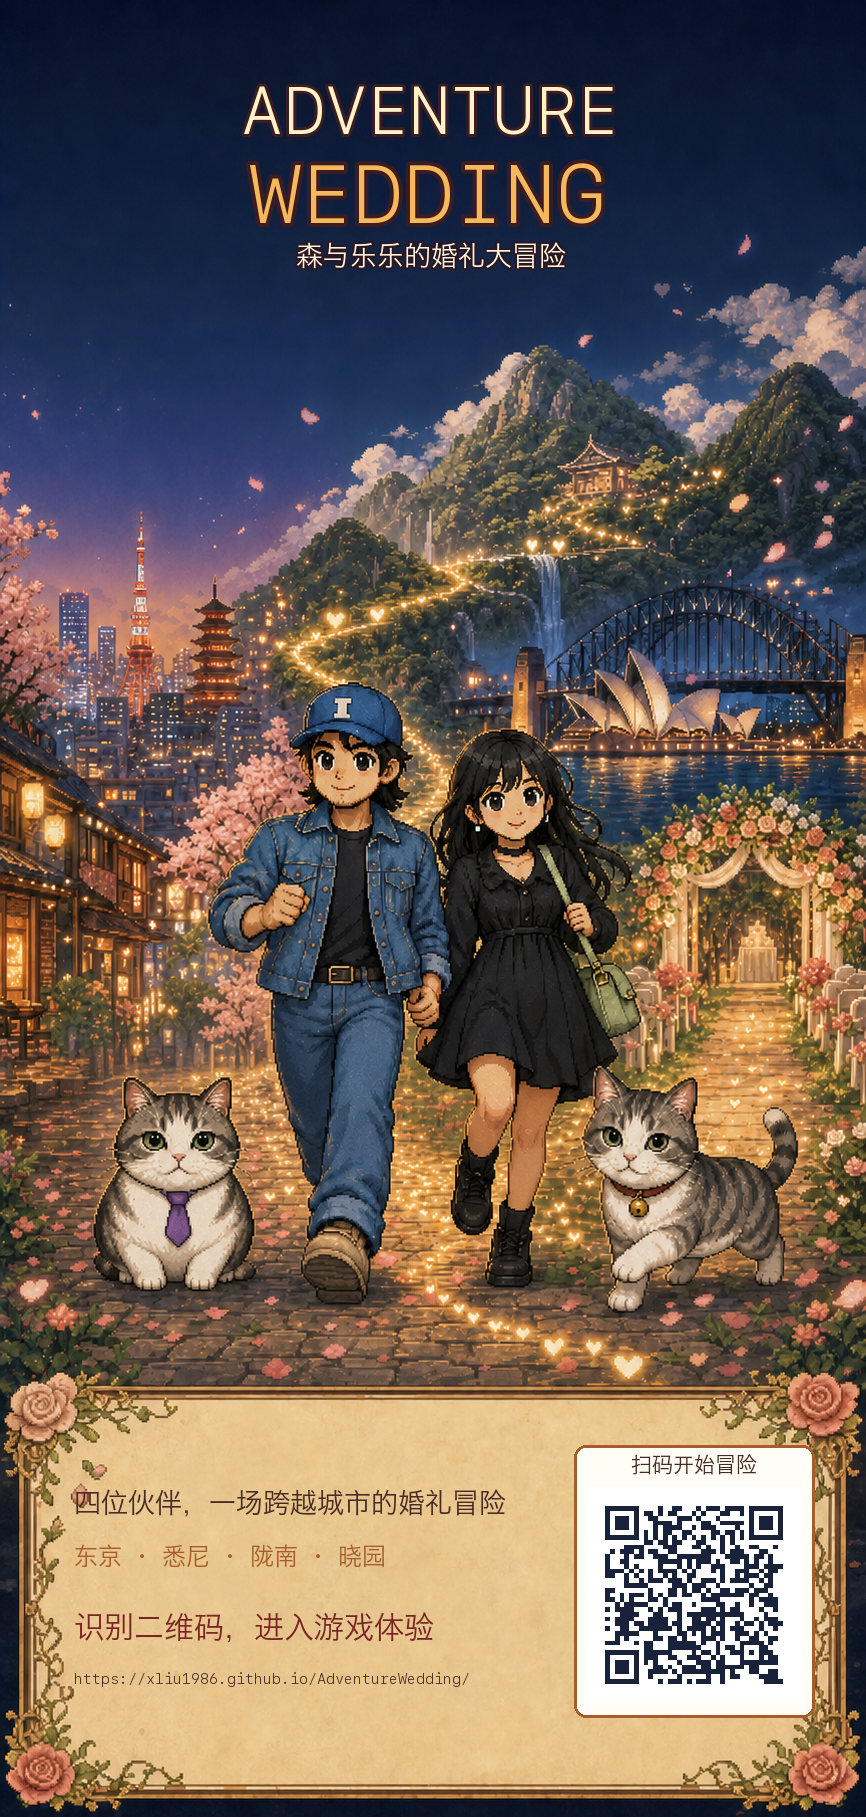
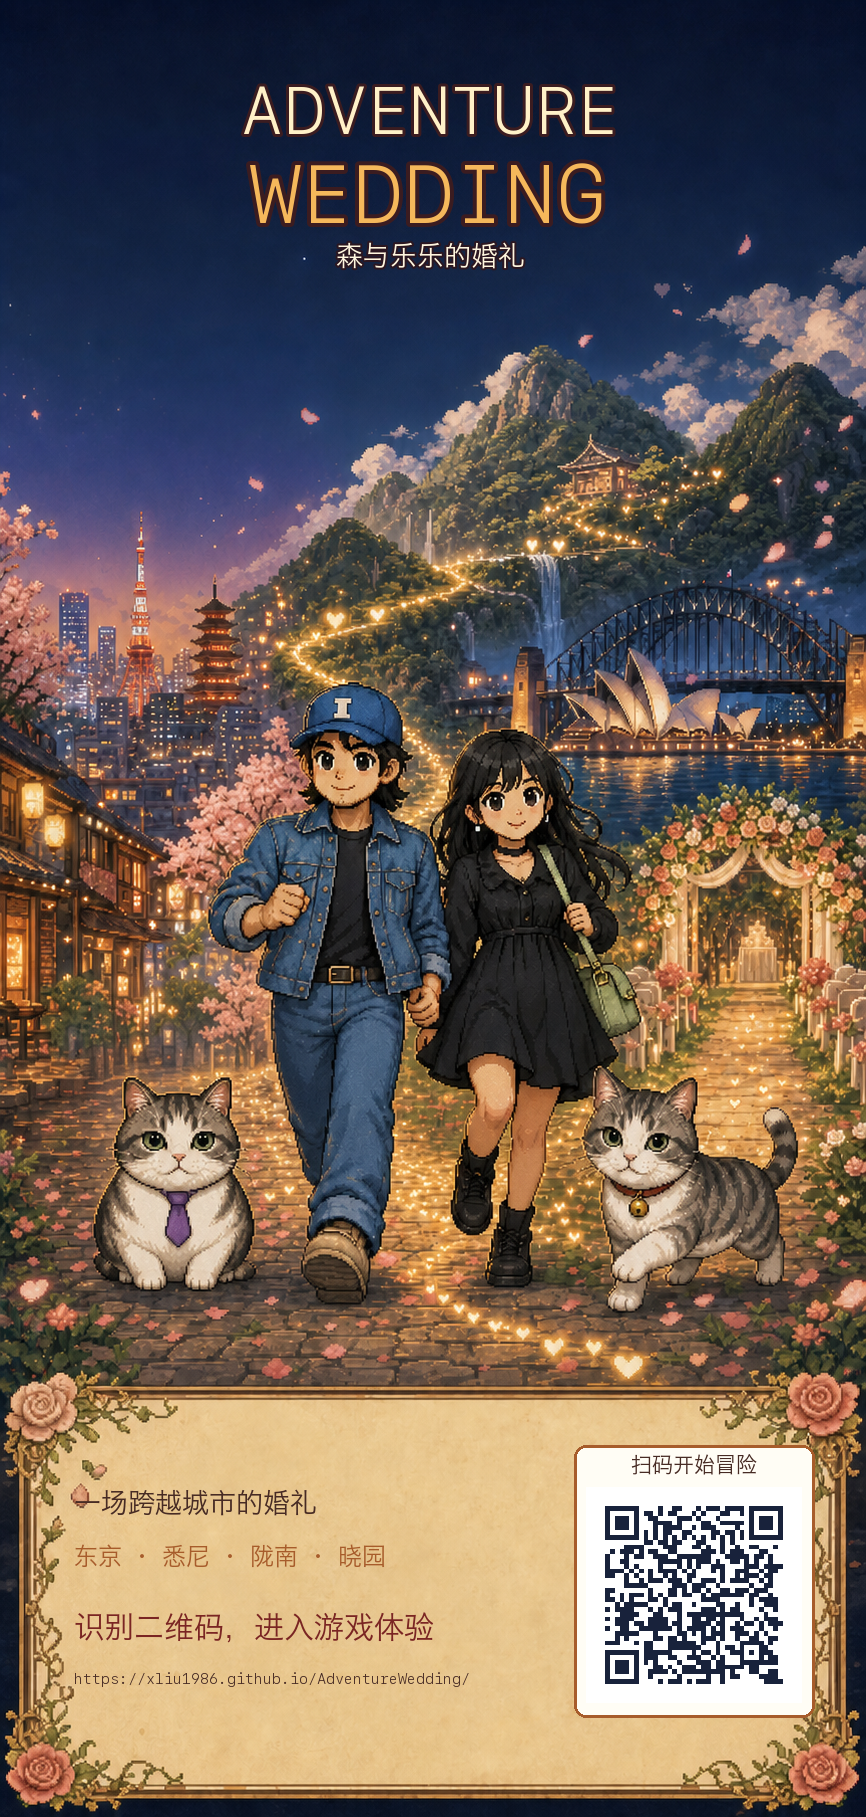
title new and poster new

Changed region(s): [[0.0935, 0.8013, 0.5924, 0.8321], [0.343, 0.1233, 0.6547, 0.1541]]

diff --git a/index.html b/index.html
@@ -236,7 +236,7 @@
 
 <header class="title">
 
-<h1>冒険の結婚式</h1>
+<h1>婚礼の進行時</h1>
 
 <p class="subtitle">
 一段始于东京的故事
